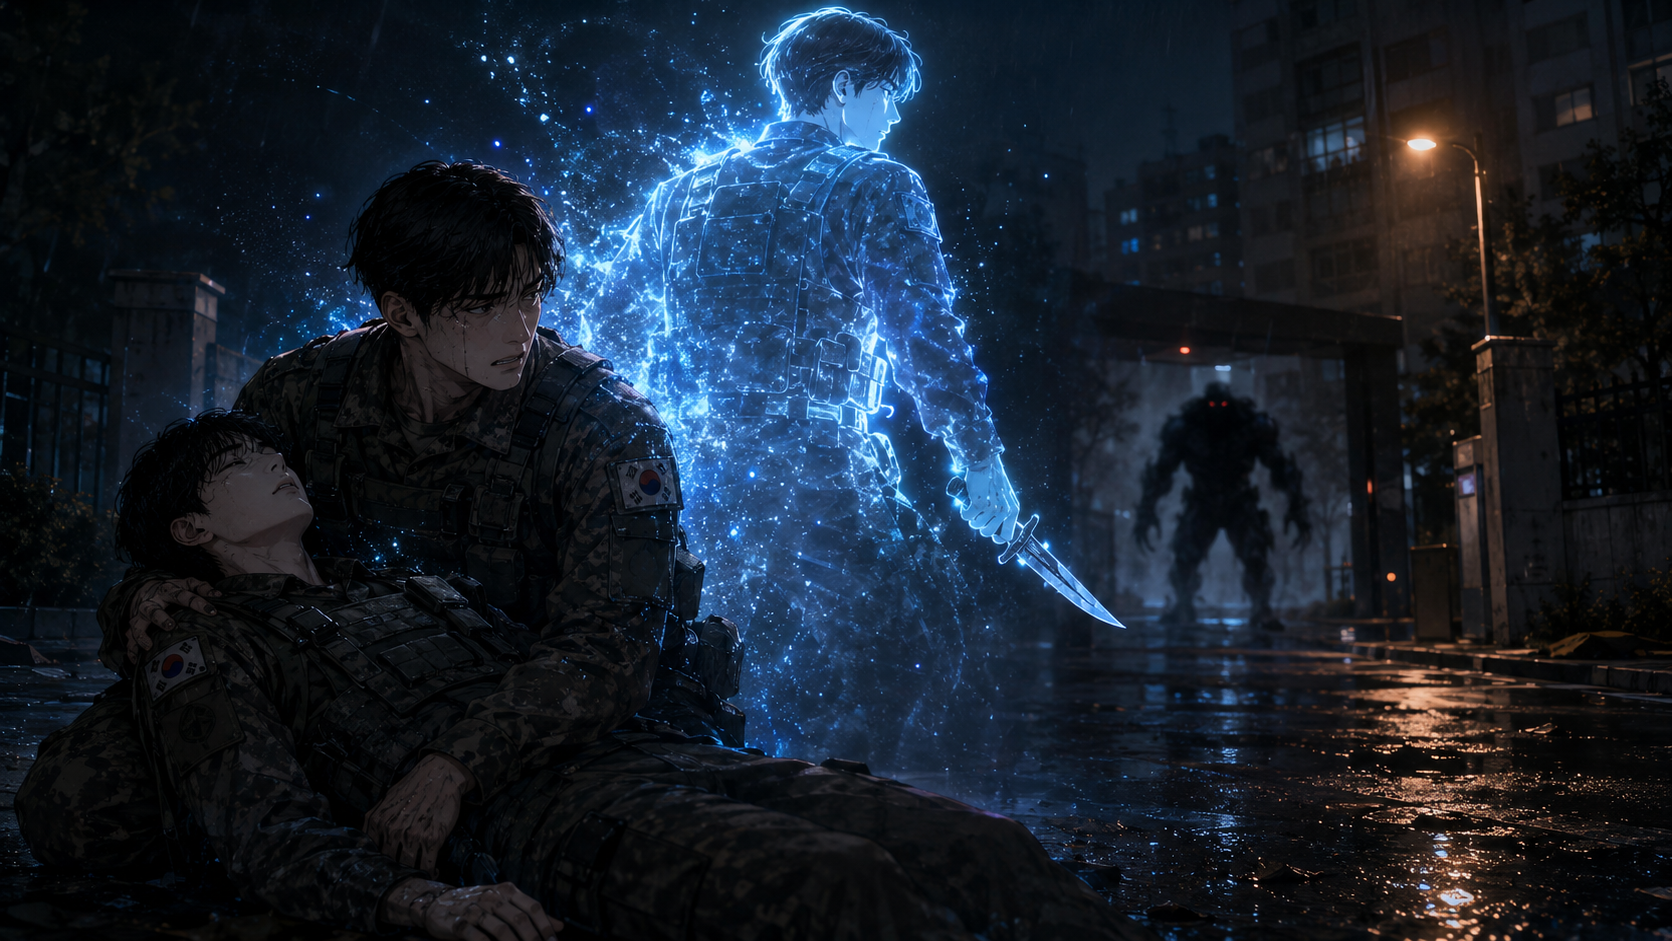
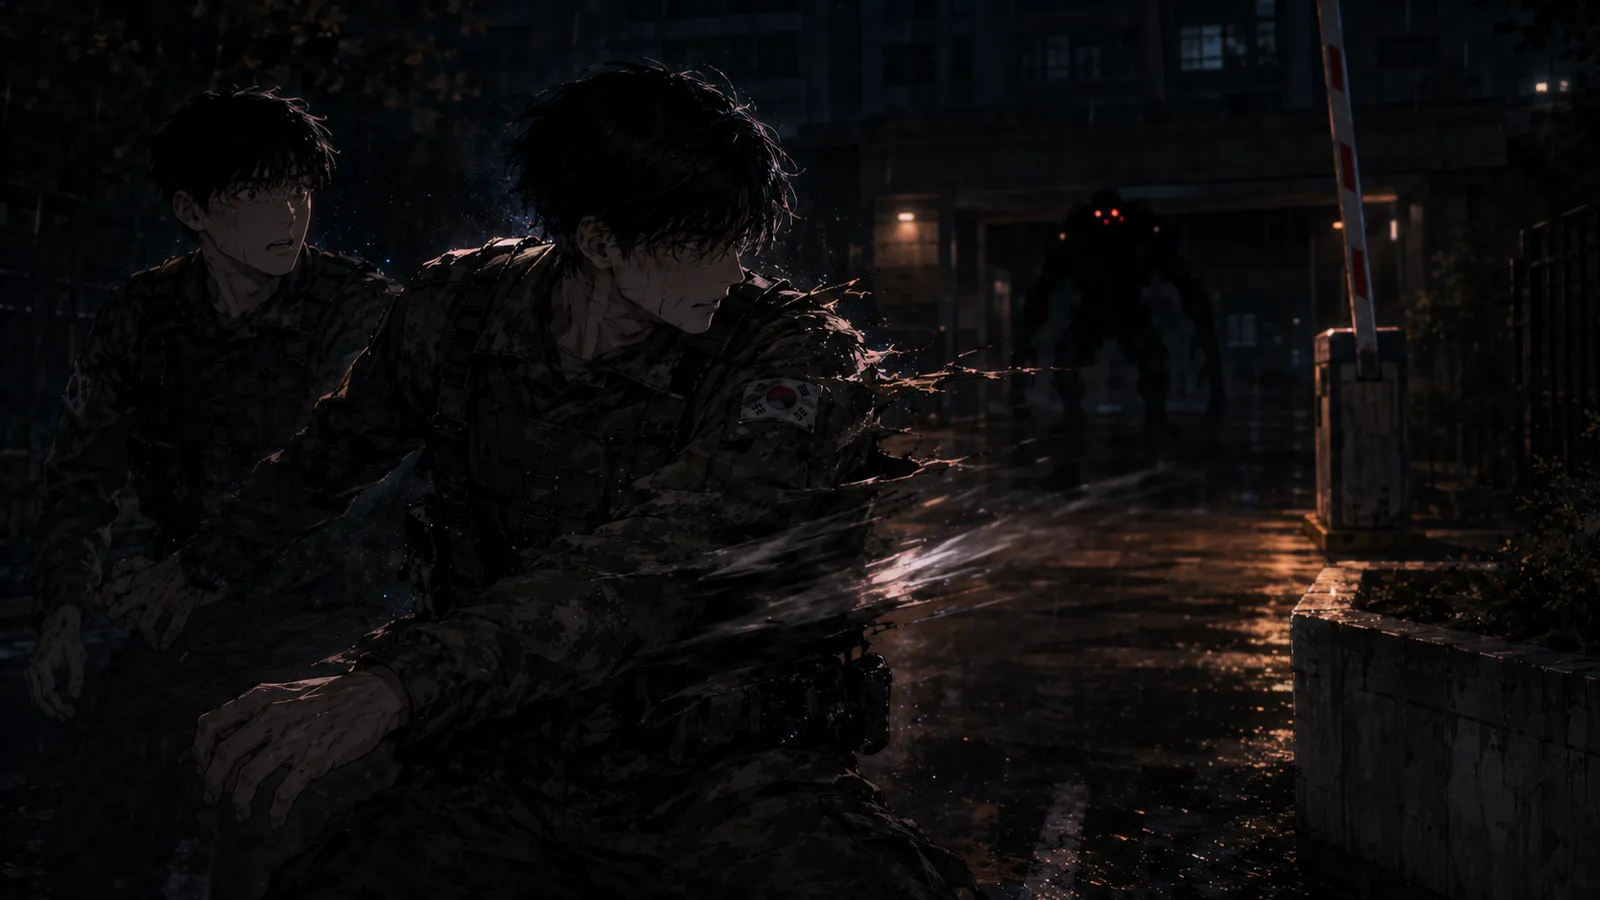
fix(ep-01,prompts): _prompts.md 누락 3 cut 추가 + 번호 재정렬
사용자 지적 — 본문 §1~§7 image src 7개 vs _prompts.md 4 cut 매핑 mismatch.
누락 3 cut 추가 + 기존 4 cut 번호 본문 §과 1:1 재매핑:

신규 cut:
- ep-01-2.webp = §2 한별 단지 (현장 진입·배치)
- ep-01-5.webp = §5 한 달 후 (분대장 사무실·퇴소)
- ep-01-6.webp = §6 C 등급 (헌터협회 측정소)

번호 재정렬 (이전 → 신규):
- ep-01-2 (§3 한 발 앞) → ep-01-3
- ep-01-3 (§4 내게오라) → ep-01-4
- ep-01-4 (§7 한 발 앞으로) → ep-01-7

cover (ep-01.webp) = ep-01-4 시그니처 cut 정합 유지.

diff --git a/content/series/clash-of-multiverses/thumbnails/ep-01/_prompts.md b/content/series/clash-of-multiverses/thumbnails/ep-01/_prompts.md
@@ -25,19 +25,40 @@ painterly + anime-styled 캐릭터 + 사실적 의상·도구 디테일 + 영화
 빛 = 외부 가로등 따뜻한 주황빛이 차창 너머에서 비스듬히 들어와 사진 + 두 인물 한쪽 얼굴에 떨어짐. 깊은 푸른 어둠 + 따뜻한 점광. cinematic painterly
 anime 톤.
 
-## ep-01-2.webp — §3 한 발 앞 / 김성훈 가로막음 (사건 정점)
+## ep-01-2.webp — §2 한별 단지 (현장 진입 / 배치)
+
+어두운 아파트 단지 정문. 가로등 절반이 깜빡이며 단지 안쪽이 어둠으로 잠겨 있는 분위기. 인도 위 깨진 유리 조각이 흩어진 채. 화면 전경 = 군용 차량에서 막 내린 1조 세
+군인의 뒷모습 / 측면 (anime-styled). 가운데 = 분대장 (어깨가 두꺼운 상사 계급), 좌측으로 진혁이 시멘트 화단 뒤로 붙는 자세, 우측으로 김성훈이 차단봉을 막
+뛰어넘은 자세. 각자 무전기를 입가에 가져온 순간. 단지 안쪽 깊은 어둠에서 *흐릿한 형체 그림자* (윤곽만 — 아직 마수 모습 확정 X) + 멀리 깜빡이는 *가로등 한 점*.
+긴장 시작의 톤 — 어둠 + 무전기 LED 미세 발광 + 가로등 깜빡임 대비.
+
+## ep-01-3.webp — §3 한 발 앞 / 김성훈 가로막음 (사건 정점)
 
 어두운 아파트 단지 정문 앞. 가로등 모두 꺼진 직후의 짙은 검정. 차단봉 + 시멘트 화단. 어둠 깊은 안쪽에서 마수 실루엣 — 두 다리, 사람보다 한 배 반쯤 큰 몸, 머리
 자리에 흐릿하게 발광하는 *세 개의 붉은 눈* (레퍼런스의 *붉은 점광* 톤). 화면 전경에 군인 둘 — 김성훈이 진혁 앞을 막아선 자세, 마수의 발톱이 옆구리를 막 가르는 순간.
 *피·잔혹 정면 묘사 X* — 실루엣 + 임팩트 빛만으로. 진혁의 anime-styled 얼굴은 김성훈의 뒷모습을 향해 굳어 있음. 어두운 검정 + 마수 눈의 붉은 점광 대비.
 
-## ep-01-3.webp — §4 내게오라 (능력 발현 — 챕터 시그니처 cut)
+## ep-01-4.webp — §4 내게오라 (능력 발현 — 챕터 시그니처 cut)
 
 **레퍼런스 매칭 cut.** 무릎 꿇은 진혁이 김성훈의 시신을 끌어안은 순간. 진혁의 anime-styled 옆얼굴이 시신을 내려다보는 자세. 시신에서 *푸른빛 입자가 흘러나와*
 일어서는 인영을 형성 — 김성훈의 혼 (반투명 푸른 발광 silhouette, 별 입자가 흩어지듯 응집). 그 인영이 군용 단검을 쥔 채 어둠 속 마수와 진혁 사이를 향해 한 걸음
 막 나선 자세. 마수는 멀리 흐릿한 검은 윤곽 + 붉은 눈. 위에서 한 줄기 분진 빛이 떨어짐. *어둡고 묵직한 정점 컷*. 본 챕터·시리즈 전체의 시그니처 이미지.
 
-## ep-01-4.webp — §7 한 발 앞으로 (마무리 / 새 길)
+## ep-01-5.webp — §5 한 달 후 (분대장 사무실 / 퇴소)
+
+군 부대 안 분대장 사무실. 작은 책상 + 형광등 + 한쪽 벽에 부대 휘장. 책상 위에 *비각성자 정예 특수부대 퇴소 신청서* 라고 적힌 흰 종이 한 장 (텍스트 디테일은 흐릿).
+분대장 (40대 후반, 어깨가 두꺼운 상사 계급, anime-styled) 이 의자에 앉아 진혁을 마주 보는 자세 — 한 손이 종이를 진혁 쪽으로 밀어놓은 모습. 진혁은 의자 앞에
+선 자세, 얼굴 절반만 화면에 — 시선이 종이로 떨어진 침묵. 빛 = 형광등의 차가운 흰빛 + 창 너머로 들어오는 옅은 낮 햇빛. 회색 콘크리트 + 군 녹색 야전복 톤. *전환의
+톤* (떠나는 자리의 무거운 침묵).
+
+## ep-01-6.webp — §6 C 등급 (헌터협회 측정소)
+
+헌터협회 측정소 안. 모던한 흰 책상 + 흰 장갑을 낀 직원 (anime-styled, 단정한 정장풍 셔츠) 이 진혁의 손등 위에 *작은 측정 기계* (홀로그래픽 인터페이스가
+손등 위로 떠오름 — 옅은 푸른 빛 한 점 + *C* 문자가 공중에 흐릿하게 출력) 를 댄 자세. 진혁은 손을 책상 위에 올린 채 마주 앉은 자세, 시선이 측정 기계로 떨어진
+모습. 책상 한쪽에 빈 명함 한 장 + 펜. 협회 로비 배경 = 깔끔한 흰 + 옅은 푸른 톤, 뒤로 다른 헌터 두엇이 흐릿하게 지나가는 실루엣 (군중감). *시스템 안의 자리*
+톤 — 차갑고 정돈된 빛.
+
+## ep-01-7.webp — §7 한 발 앞으로 (마무리 / 새 길)
 
 헌터협회 측정소 프론트 밖, 봄볕이 길게 도로 위로 깔린 황혼 톤 거리. 진혁의 측면·반측면 — 군장 대신 검정 셔츠 + 다크 네이비 팬츠 + 운동화의 사복. 한 발이 막 앞으로
 디뎌진 자세. anime-styled 얼굴은 정면 살짝 아래 — 결연한 눈매. 손에 명함 한 장 (디테일은 흐릿 — 텍스트 X). 다른 손은 군장 안주머니에 — 검은 지갑 모서리
@@ -46,6 +67,6 @@ anime 톤.
 
 ## ep-01.webp (챕터 북리더 cover)
 
-ep-01-3.webp (내게오라 cut) 와 동일 톤 — *시그니처*. 비율만 가로 16:9 또는 정방형. 진혁 + 시신 + 푸른 발광 혼 인영을 한 화면에. 또는
+ep-01-4.webp (내게오라 시그니처 cut) 와 동일 톤 — 비율만 가로 16:9 또는 정방형. 진혁 + 시신 + 푸른 발광 혼 인영을 한 화면에. 또는
 ep-01-1.webp 차량 안 cut의 사진 클로즈업 (지갑 + 교복 사진) 도 가능 — *조용한 시작*을 강조하는 cover 톤일 때.
 
